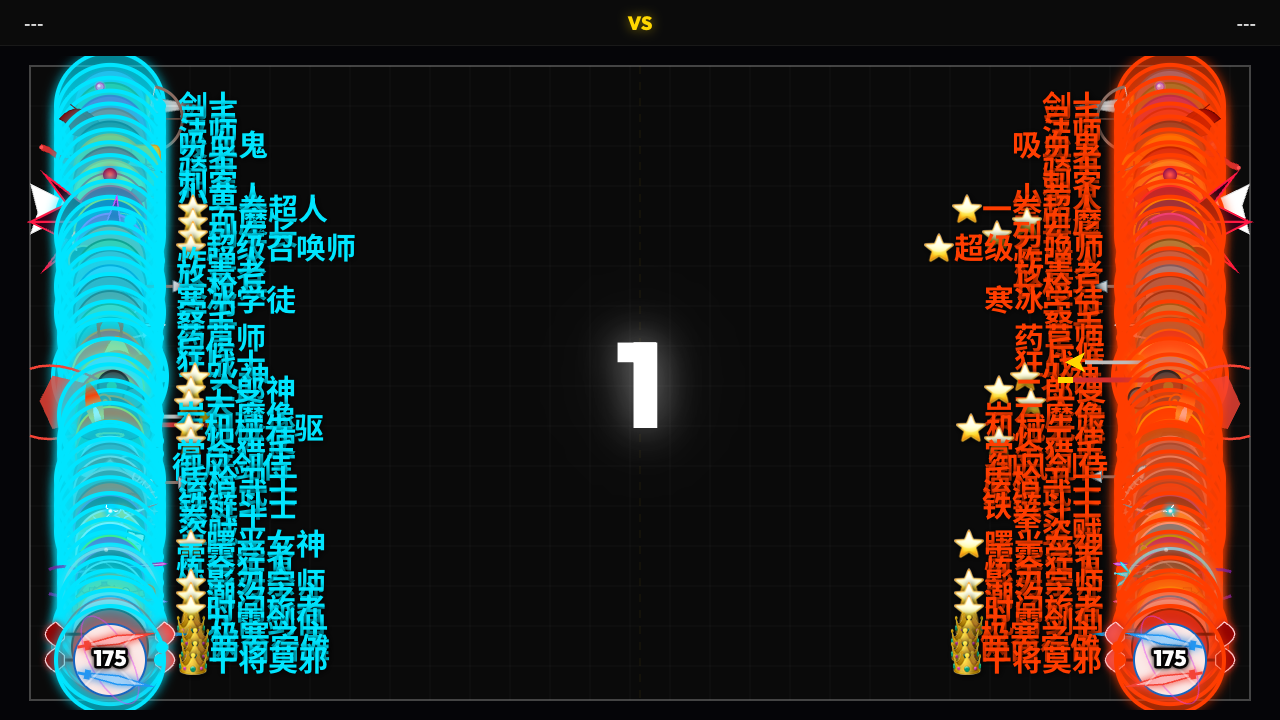
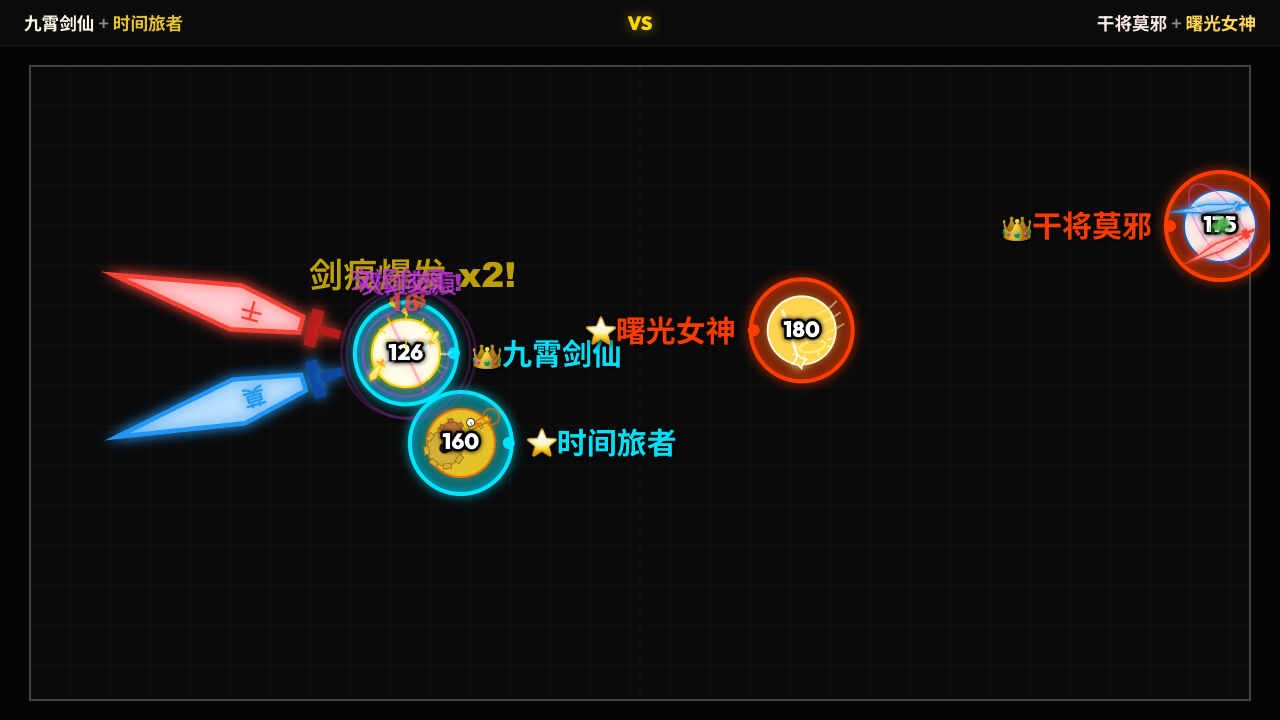
readme

diff --git a/README.md b/README.md
@@ -4,6 +4,8 @@
 
 它不需要后端、不需要数据库，也不需要复杂构建流程。打开网页，选人，开战。
 
+试玩地址：[http://8.162.8.124:8080](http://8.162.8.124:8080)
+
 ![Battle Arena 战斗实况](docs/screenshots/battle-arena.png)
 
 ## 为什么值得玩
@@ -33,6 +35,46 @@
 战斗发生在 Canvas 中，角色、投射物、范围效果、伤害数字和生命条都会实时刷新。
 
 ![战斗实况](docs/screenshots/battle-arena.png)
+
+### 更多对局瞬间
+
+**一对一：传说级单挑**
+
+九霄剑仙对阵两面宿傩，适合观察高机动突进、无敌帧、连段和斩击特效。
+
+![一对一传说单挑](docs/screenshots/duel-one-v-one.png)
+
+**一对多：火神压场**
+
+火神单挑小队时，灼烧、扇形火焰和连锁爆燃会把战场变成持续扩散的火场。
+
+![一对多火神压场](docs/screenshots/one-vs-many.png)
+
+**实时混战：控制、召唤与范围技能叠加**
+
+极寒之主、时间旅者、机械先驱和超级召唤师对阵干将莫邪、曙光女神、潮汐之主和大圣，能看到控制场、召唤物、治疗复活和穿刺剑气在同一局里互相碰撞。
+
+![实时混战](docs/screenshots/realtime-clash.png)
+
+## 特色角色
+
+**九霄剑仙 / Celestial Sword Deity**  
+传说级近战核心。普攻会打出剑波、范围眩晕和连续穿刺，飞剑环绕带来攻速与移速成长；濒死时还能化为金色剑意免死滑行。主动技能「诛仙剑阵」会把战场变成一片剑雨。
+
+**极寒之主 / Frost Lord**  
+传说级控场角色。冰盾让单次非灼烧伤害被压低，受击后反放冰刃；普攻会先砸下冰山，再化为冰杖穿到低血敌人身后。主动技能「极寒之地」能制造吸入敌人的封锁领域。
+
+**干将莫邪 / Gan Jiang Mo Ye**  
+传说级双剑角色。普通攻击从身体两侧发射红蓝巨剑，追踪、穿刺并留下交汇剑痕；受到伤害时有机会无敌穿身，濒死时还能靠双剑续命反打。
+
+**火神 / Vulcan**  
+英雄级范围爆发。普通攻击改为扇形放火，点燃敌人后持续扣血；「天火爆燃」会引爆所有着火目标和周围区域，一旦敌人站得太密，局面会瞬间炸开。
+
+**时间旅者 / Time Traveler**  
+英雄级节奏控制。能让友军或自己在致命伤害时倒流回 3 秒前状态；时间结界会加速友方、迟滞敌方，把战斗从拼数值变成拼窗口期。
+
+**机械先驱 / Mecha Pioneer**  
+英雄级火力平台。两只浮游子机会持续自动射击，低血时展开电磁护盾；主动技能「重力力场」适合在多人混战里聚怪和打断阵型。
 
 ## 快速开始
 